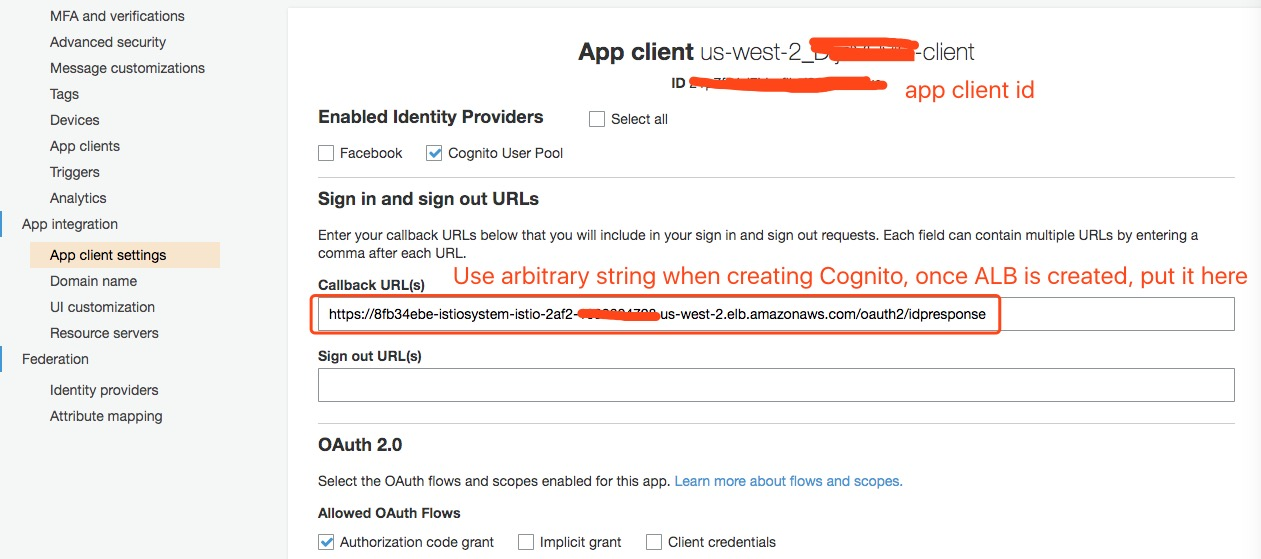
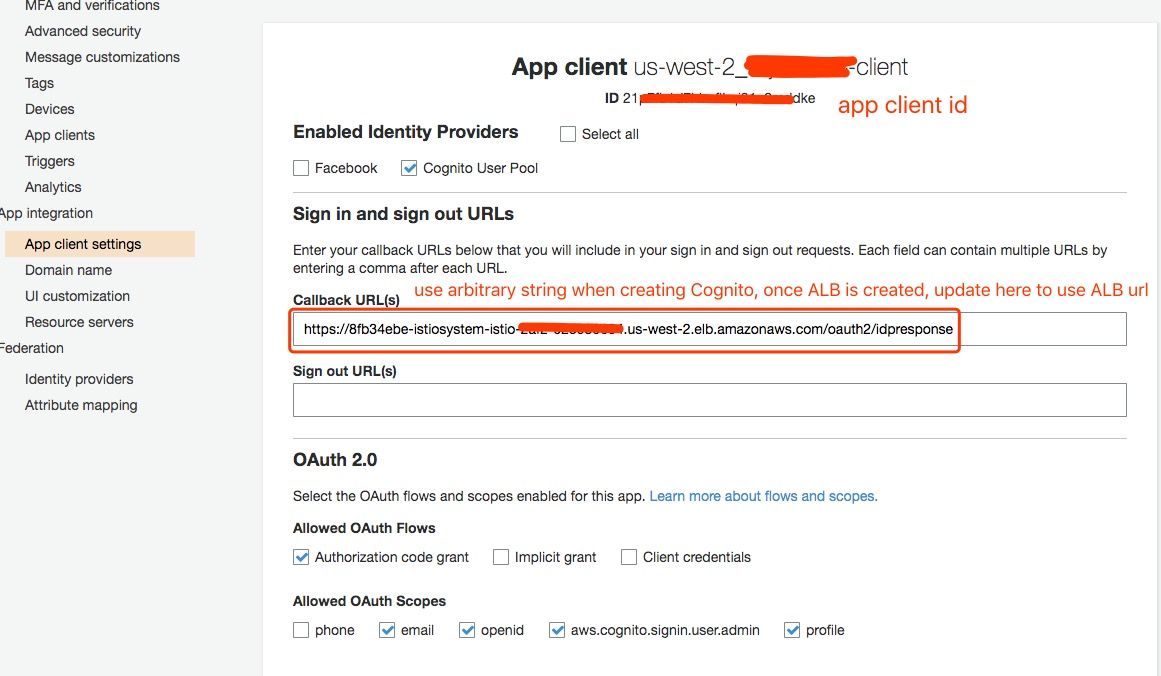
Update AWS documentation for v1.0.1 (#1804)

Changed region(s): [[0.2171, 0.0608, 1.0, 1.0], [0.0, 0.0, 0.186, 0.6082], [0.0, 0.6386, 0.124, 0.7603]]

diff --git a/content/docs/aws/customizing-aws.md b/content/docs/aws/customizing-aws.md
@@ -8,22 +8,11 @@ This guide describes how to customize your deployment of Kubeflow on Amazon EKS.
 These steps can be done before you run `apply -V -f ${CONFIG_FILE}` command. Please see the following sections for details. If you don't understand the deployment process, please see [deploy](/docs/aws/deploy) for details.
 
 
-## Customizing Kubeflow
-
-Here are the optional configuration parameters for kfctl on the AWS platform.
-
-| Options  | Description  | Required |
-|---|---|---|
-| `awsClusterName` | Name of your new or existing Amazon EKS cluster  |  YES |
-| `awsRegion`  |  The AWS Region to launch in |  YES |
-| `awsNodegroupRoleNames`  |  The IAM role names for your worker nodes | YES for existing clusters / No for new clusters |
-
-
 ### Customize your Amazon EKS cluster
 
-Before you run `kfctl apply -V -f ${CONFIG_FILE}`, you can edit the cluster configuration file to change cluster specification before you create the cluster.
+> Note: This is only working for user who like `kfctl` to create a new EKS cluster. If you already have the cluster, you can skip this section.
 
-Cluster configuration is stored in `${KF_DIR}/aws_config/cluster_config.yaml`. Please see [eksctl](https://eksctl.io/) for configuration details.
+Before you run `kfctl apply -V -f ${CONFIG_FILE}`, you can edit the cluster configuration file to change cluster specification before you create the cluster.
 
 For example, the following is a cluster manifest with one node group which has 2 `p2.xlarge` instances. You can easily enable SSH and configure a public key. All worker nodes will be in single Availability Zone.
 
@@ -50,7 +39,7 @@ nodeGroups:
     volumeSize: 30
     ssh:
       allow: true
-      sshPublicKeyPath: '~/.ssh/id_rsa.pub'
+      publicKeyPath: '~/.ssh/id_rsa.pub'
 
   # Example of GPU node group
   # - name: Tesla-V100
@@ -66,7 +55,7 @@ nodeGroups:
   #   volumeSize: 50
   # Enable SSH out side your VPC.
   #   allowSSH: true
-  #   sshPublicKeyPath: '~/.ssh/id_rsa.pub'
+  #   publicKeyPath: '~/.ssh/id_rsa.pub'
   # Customize Labels
   #   labels:
   #     'k8s.amazonaws.com/accelerator': 'nvidia-tesla-k80'

diff --git a/content/docs/aws/deploy/install-kubeflow.md b/content/docs/aws/deploy/install-kubeflow.md
@@ -108,6 +108,33 @@ configuration before deploying Kubeflow:
   ```
 ## Configure Kubeflow
 
+In v1.0.1, Kubeflow supports to use [AWS IAM Roles for Service Account](https://docs.aws.amazon.com/eks/latest/userguide/iam-roles-for-service-accounts.html) to fine grain control AWS service access.
+kfctl will create two roles `kf-admin-${cluster_name}` and `kf-user-${cluster_name}` and Kubernetes service account `kf-admin` and `kf-user` under kubeflow namespace. `kf-admin-${cluster_name}` will be assumed by components like `alb-ingress-controller`, `profile-controller` or any Kubeflow control plane components which need to talk to AWS services. `kf-user-${cluster_name}` can be used by user's application.
+
+This is only available on EKS, for DIY Kubernetes on AWS, check out [aws/amazon-eks-pod-identity-webhook](https://github.com/aws/amazon-eks-pod-identity-webhook/) to setup webhook.
+
+Traditional way to attach IAM policies to node group role is still working, feel free choose the way you like to use.
+
+### Option 1: Use IAM For Service Account
+
+  `kfctl` will help create or reuse IAM OIDC Identity Provider, create role and handle trust relationship binding with Kubernetes Service Accounts.
+
+  > Note: By default, we don't attach any policies to `kf-user-${cluster_name}`, you can attach policies based on your need.
+
+  Add `enablePodIamPolicy: true` in your `${CONFIG_FILE}` file:
+  ```
+  region: us-west-2
+  enablePodIamPolicy: true
+
+  # you can delete following roles settings.
+  #roles:
+  #- eksctl-kubeflow-example-nodegroup-ng-185-NodeInstanceRole-1DDJJXQBG9EM6
+  ```
+
+  Check [IAM Role For Service Account](/docs/aws/iam-for-sa) for more usage.
+
+### Option 2: Use Node Group Role
+
 1. Replace the AWS cluster name in your `${CONFIG_FILE}` file, by changing
   the value `kubeflow-aws` to `${AWS_CLUSTER_NAME}` in multiple locations in
   the file. For example, use this `sed` command:

diff --git a/content/docs/aws/iam-for-sa.md b/content/docs/aws/iam-for-sa.md
@@ -72,8 +72,10 @@ This is trust relationships of role `${AWS_IAM_ROLE}`
       "Condition": {
         "StringEquals": {
           "oidc.eks.us-west-2.amazonaws.com/id/${OIDC_WEB_IDENTITY_PROVIDER}:aud": "sts.amazonaws.com",
-          "oidc.eks.us-west-2.amazonaws.com/id/${OIDC_WEB_IDENTITY_PROVIDER}:sub": "system:serviceaccount:userA:defult-viewer",
-          "oidc.eks.us-west-2.amazonaws.com/id/${OIDC_WEB_IDENTITY_PROVIDER}:sub": "system:serviceaccount:userB:defult-viewer",
+          "oidc.eks.us-west-2.amazonaws.com/id/${OIDC_WEB_IDENTITY_PROVIDER}:sub": [
+            "system:serviceaccount:userA:defult-viewer",
+            "system:serviceaccount:userB:defult-viewer",
+          ]
         }
       }
     }
